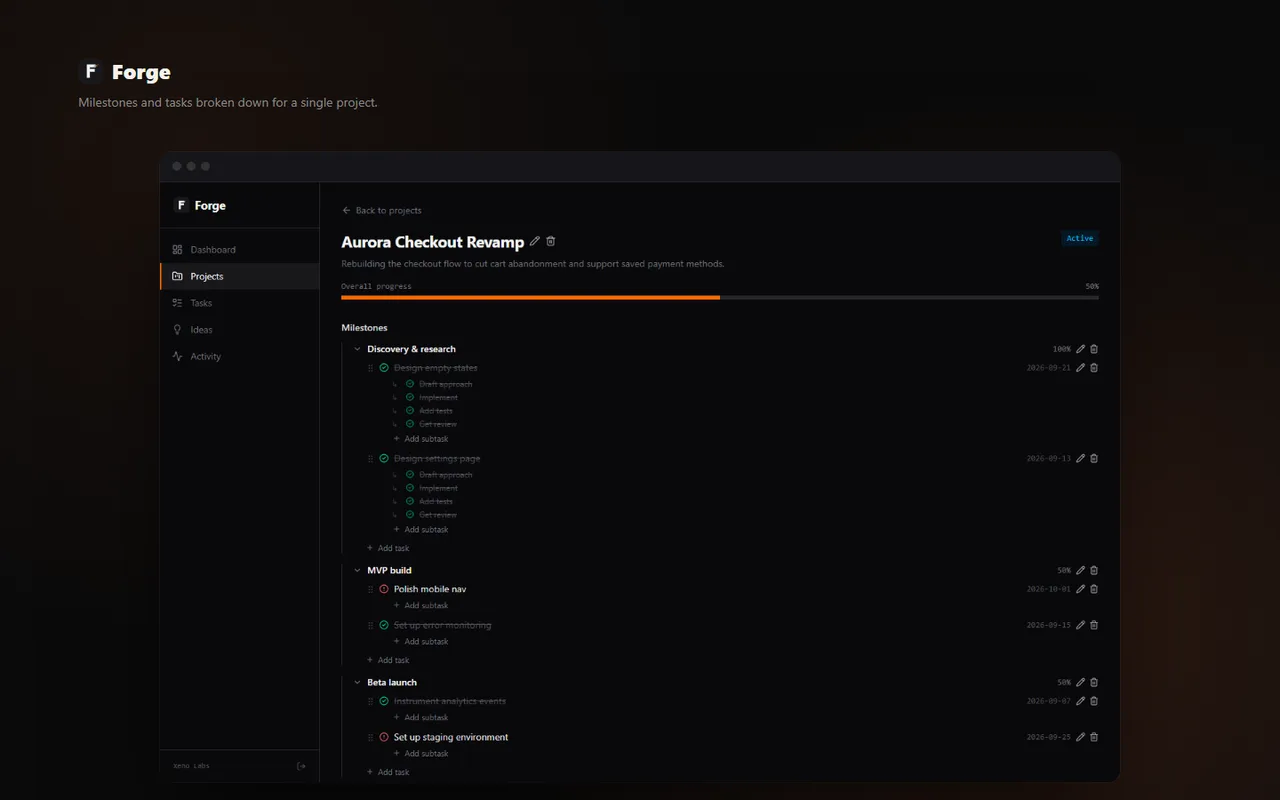
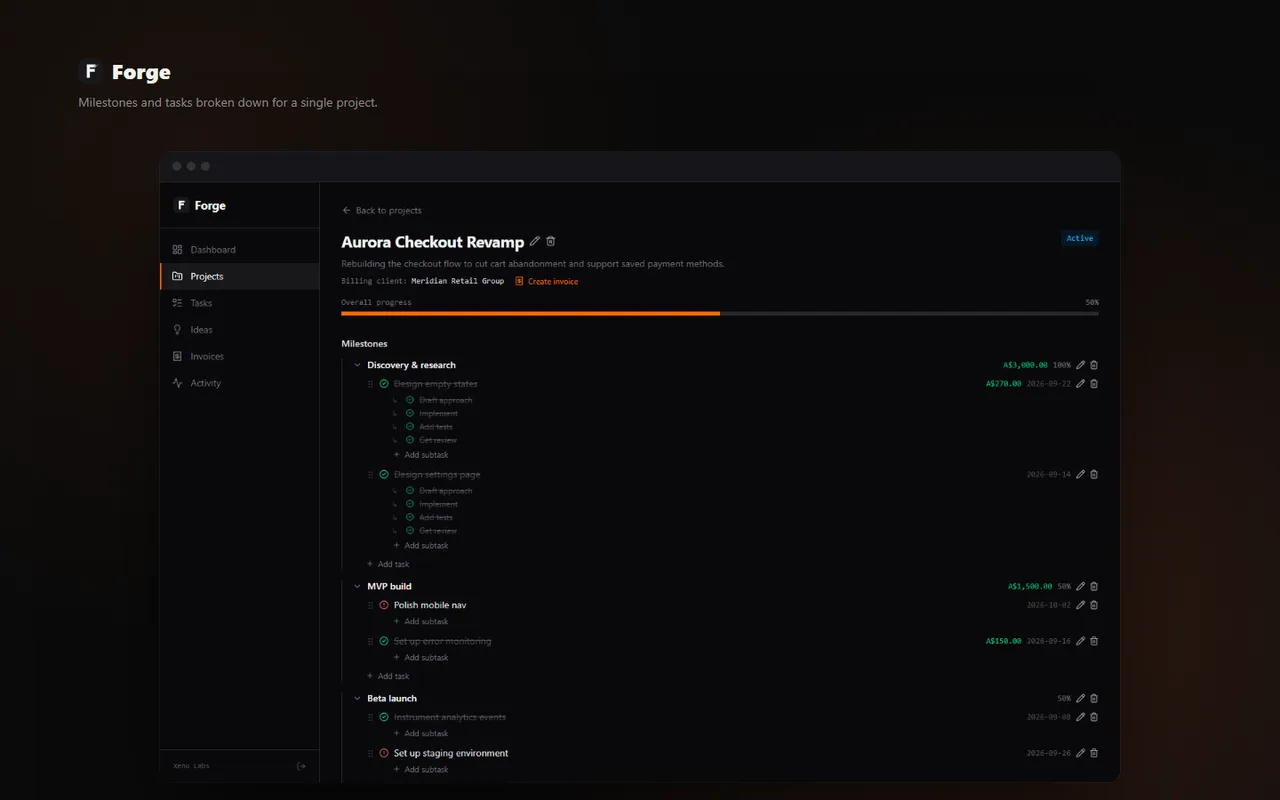
Add Forge invoicing screenshots to projects page
Forge now handles client billing (hourly/fixed invoicing, tracked
draft to paid), so the gallery and description are updated to show it.

diff --git a/src/data/projects.ts b/src/data/projects.ts
@@ -27,7 +27,9 @@ export const projects: Project[] = [
       '/screenshots/forge-03-project-detail.webp',
       '/screenshots/forge-04-tasks.webp',
       '/screenshots/forge-05-ideas.webp',
-      '/screenshots/forge-06-dashboard-mobile.webp',
+      '/screenshots/forge-06-invoices.webp',
+      '/screenshots/forge-07-invoice-detail.webp',
+      '/screenshots/forge-08-dashboard-mobile.webp',
     ],
     stack: ['React', 'Firebase', 'Cloud Functions', 'Express'],
     name: { en: 'Forge', es: 'Forge' },
@@ -36,8 +38,8 @@ export const projects: Project[] = [
       es: 'Gestión de proyectos, sin la carga extra',
     },
     description: {
-      en: 'A lightweight internal tool for tracking projects, milestones, and tasks — built because the existing options felt heavier than the work actually needed. Includes a dashboard, activity history, and a companion MCP server so the assistant can read and update projects directly from chat.',
-      es: 'Una herramienta interna ligera para dar seguimiento a proyectos, hitos y tareas — la construí porque las opciones que había se sentían más pesadas de lo que el trabajo realmente necesitaba. Incluye un panel, historial de actividad y un servidor MCP complementario para que el asistente pueda leer y actualizar proyectos directamente desde el chat.',
+      en: 'A lightweight internal tool for tracking projects, milestones, and tasks — built because the existing options felt heavier than the work actually needed. Includes a dashboard, activity history, client billing with hourly and fixed-rate invoicing, and a companion MCP server so the assistant can read and update projects directly from chat.',
+      es: 'Una herramienta interna ligera para dar seguimiento a proyectos, hitos y tareas — la construí porque las opciones que había se sentían más pesadas de lo que el trabajo realmente necesitaba. Incluye un panel, historial de actividad, facturación de clientes por hora o tarifa fija, y un servidor MCP complementario para que el asistente pueda leer y actualizar proyectos directamente desde el chat.',
     },
   },
   {
